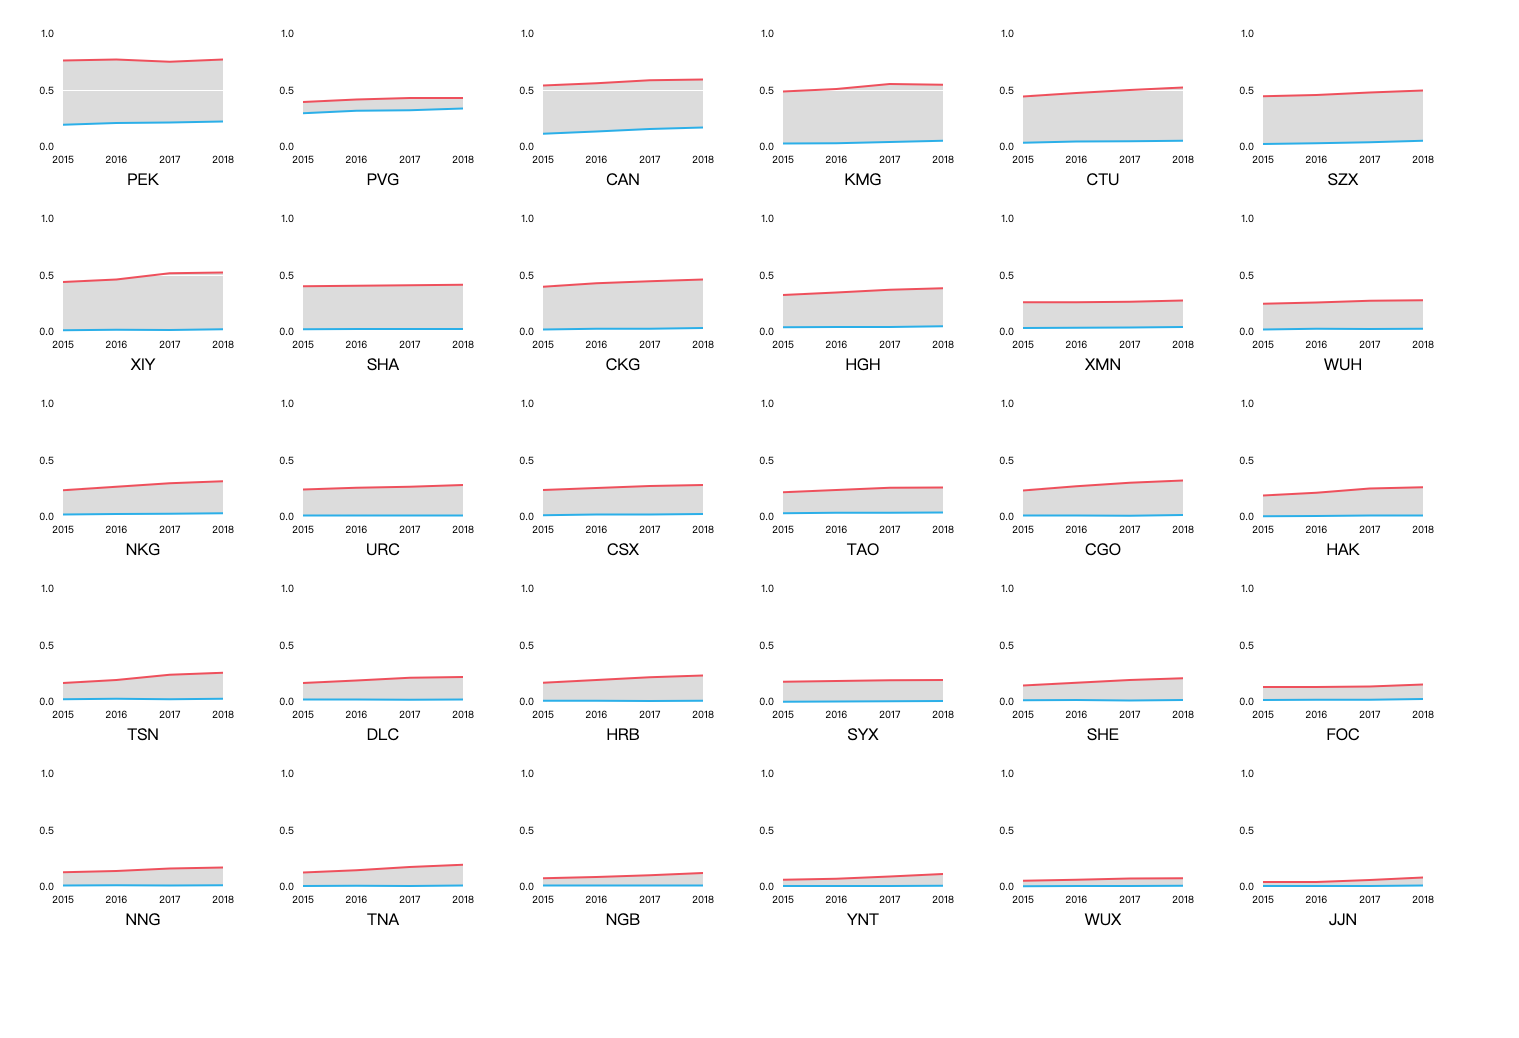
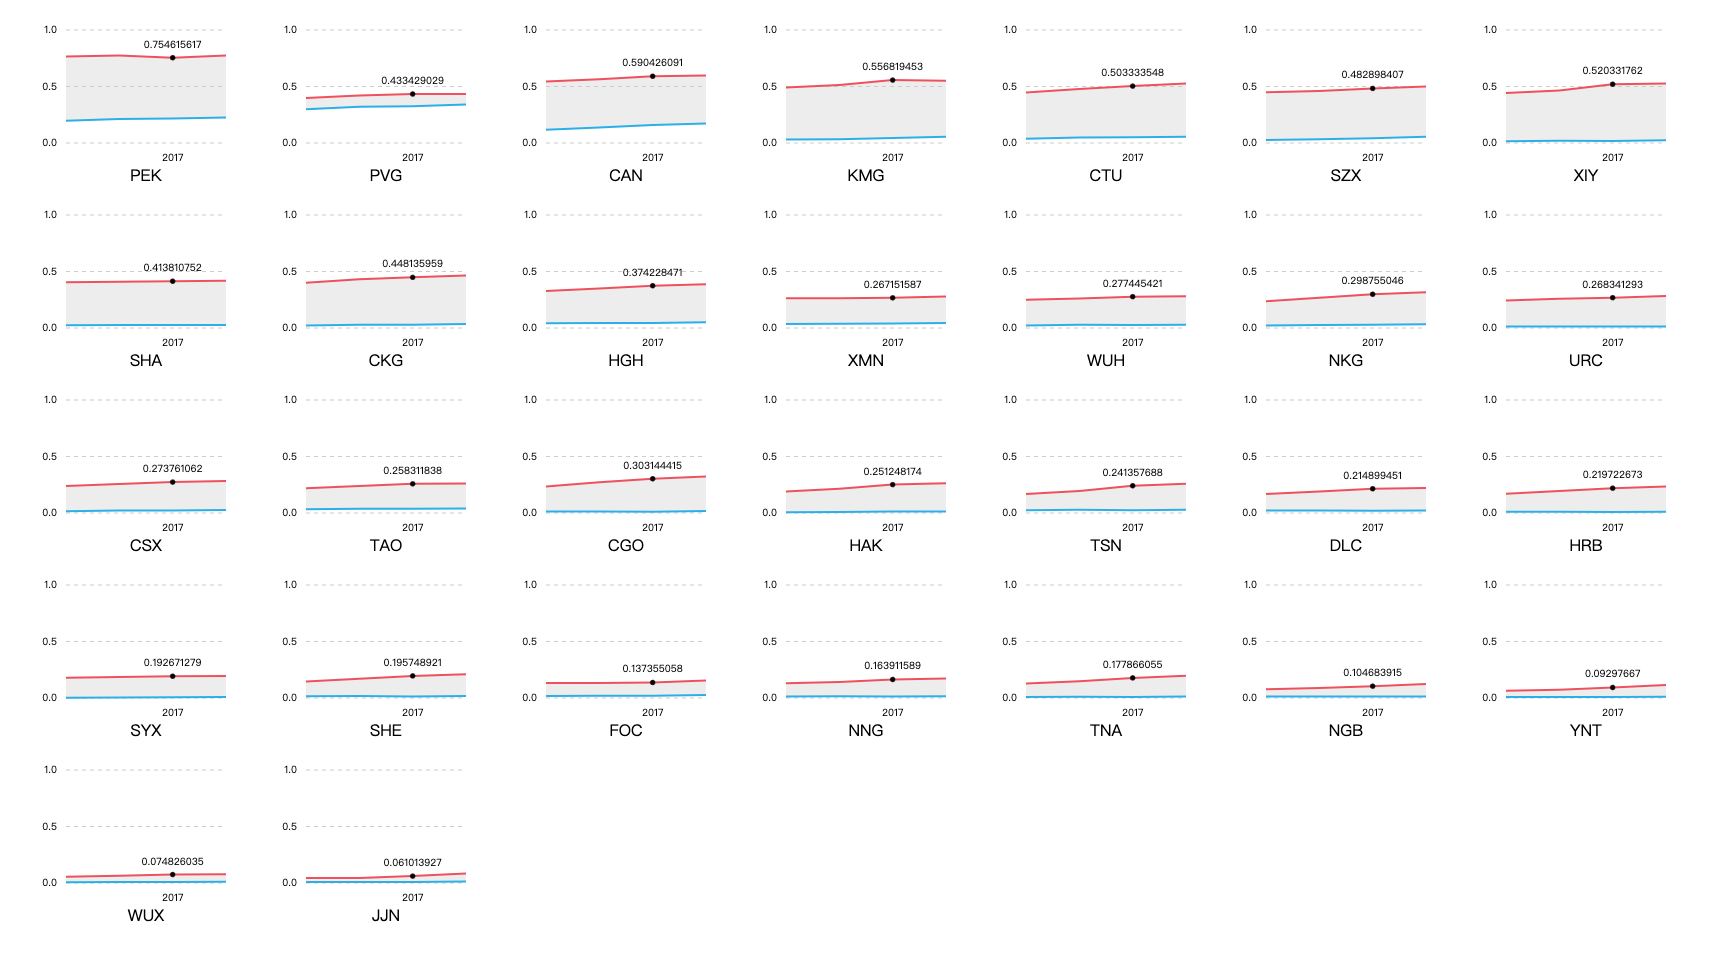
interactive multiple v1.0

diff --git a/Interactive Small Multiples.html b/Interactive Small Multiples.html
@@ -32,6 +32,26 @@
     stroke: #ccc;
     stroke-dasharray: 4,4
   }
+  .point {
+    fill: black;
+  }
+  .point text {
+    text-anchor: middle;
+    transform: translateY(-10px);
+    font-size: 10px;
+    stroke: none;
+  }
+  .bottom-handle {
+    text-anchor: middle;
+   	font-size: 10px;
+    transform: translateY(1.5em);
+  }
+  .top-handle {
+    display: none;
+  }
+  .annotation-line line {
+    display: none;
+  }
 </style>
 
 <div id='small-multiples'></div>
@@ -165,25 +185,27 @@ d3.csv('data/askmefi_category_year.csv',(r) => ({
       	.classed('multiple', true)
       	.merge(update)
         .call(chart)
-        .classed('tooltip', d => d.trackball.length);
+        .classed('tooltip', function(d) { return d.trackball.length; });
 
       // add the pointer component to the plot-area, re-rendering
       // each time the event fires.
       var pointer = fc.pointer()
-        .on('point', (event) => {
-          // determine the year
+        .on('point', function(event) {
           if (event.length) {
+            // determine the year
             var year = Math.round(xScale.invert(event[0].x));
             // add the point to each series
-            nested.forEach((group) => {
-              var value = group.values.find(v => v.year === year);
+            nested.forEach(function(group) {
+              var value = group.values.find(function(v) { return v.year === year; });
               group.trackball = [{
                 year: year,
                 value: value.n2
               }];
             })
           } else {
-            nested.forEach(g => g.trackball = [])
+            nested.forEach(function(g) {
+              g.trackball = [];
+            })
           }
           render();
         });
